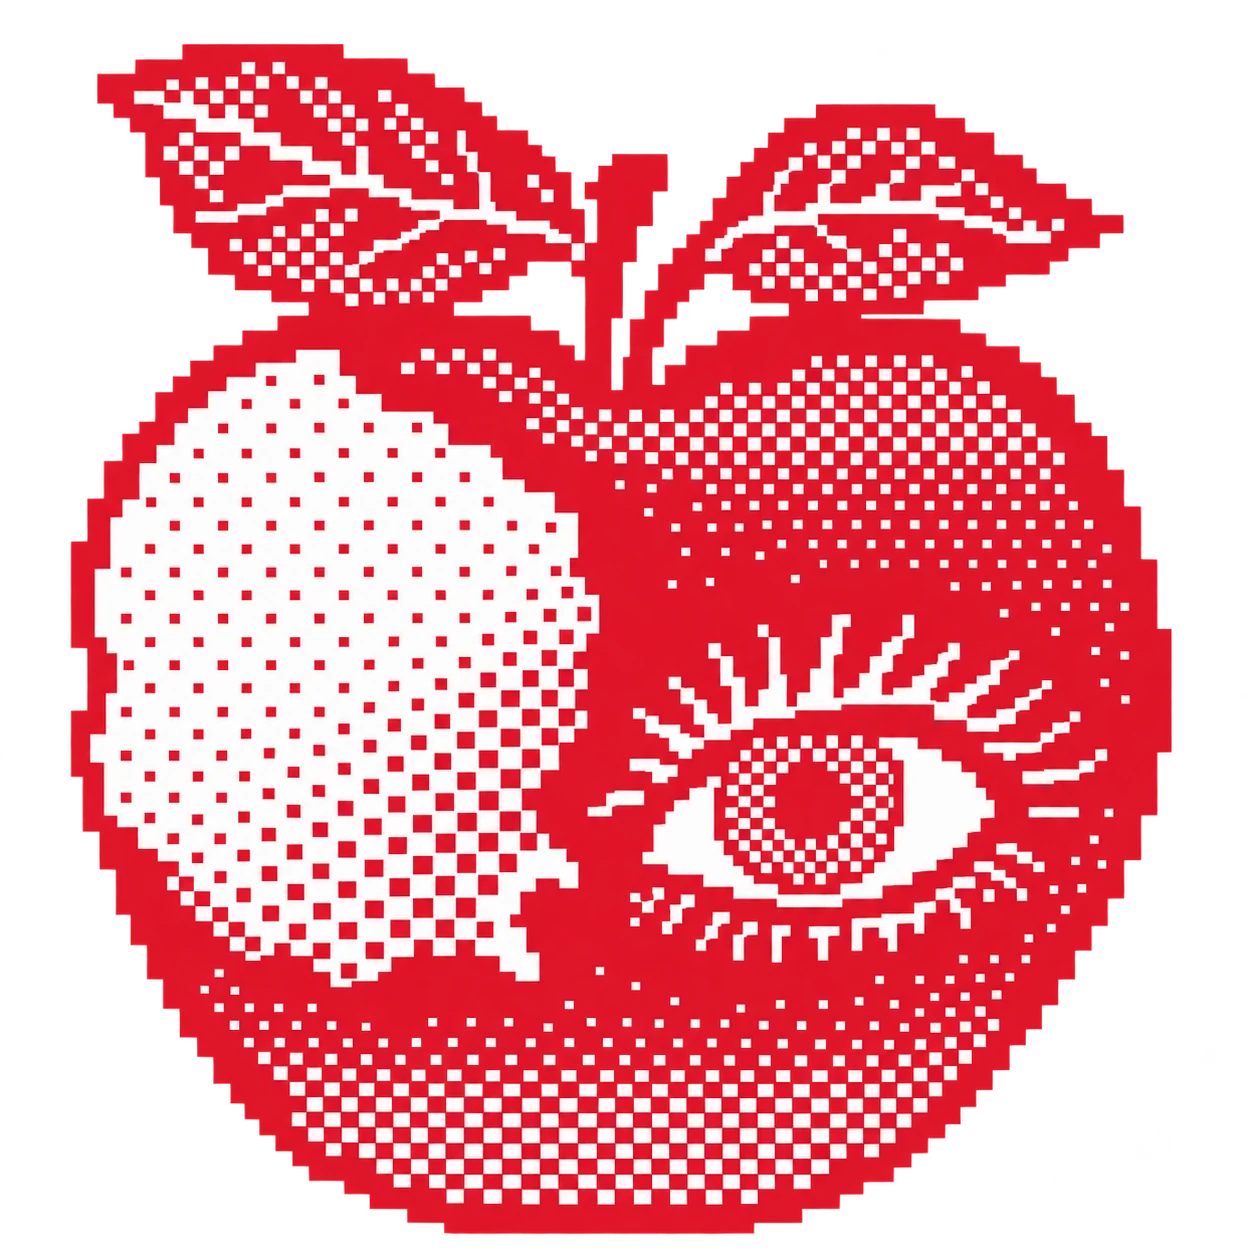
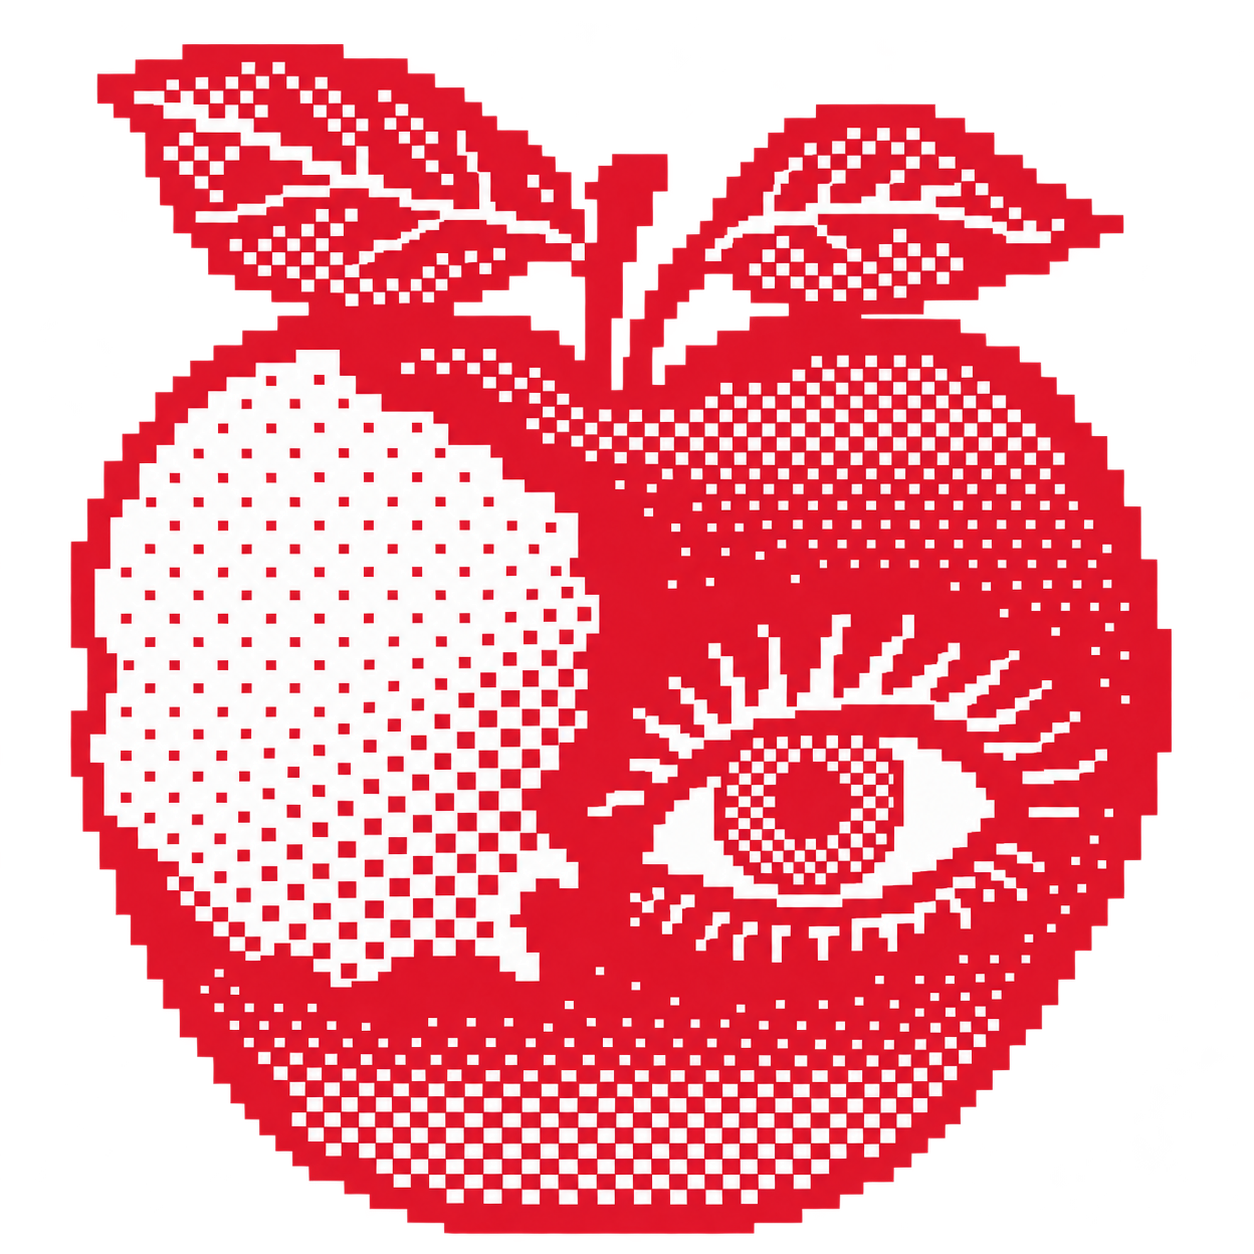
Keep the product page's corner apple exactly as it was
The load-size pass (c72e461) swapped the red bitmap apple for a lossy WebP,
which blurred about 5% of its pixels. It is now a lossless WebP that decodes
to the original PNG pixel for pixel (877 KB vs 1.27 MB). The public product
page also drops viewport-fit=cover (added for the Eden shop frame), so its
layout under an iPhone notch is unchanged.

diff --git a/product.html b/product.html
@@ -3,7 +3,7 @@
 <head>
  <meta charset="UTF-8">
  <script>if(!new URLSearchParams(location.search).has('nocover')){const url=new URL(location.href);url.searchParams.set('nocover','1');history.replaceState(history.state,'',url);}</script>
- <meta name="viewport" content="width=device-width, initial-scale=1.0, viewport-fit=cover">
+ <meta name="viewport" content="width=device-width, initial-scale=1.0">
  <script src="/site/eden-embed.js?v=4"></script>
  <title>BREAKTHYRULE — Garment</title>
  <link rel="icon" type="image/png" href="/assets/favicon-32.png">
